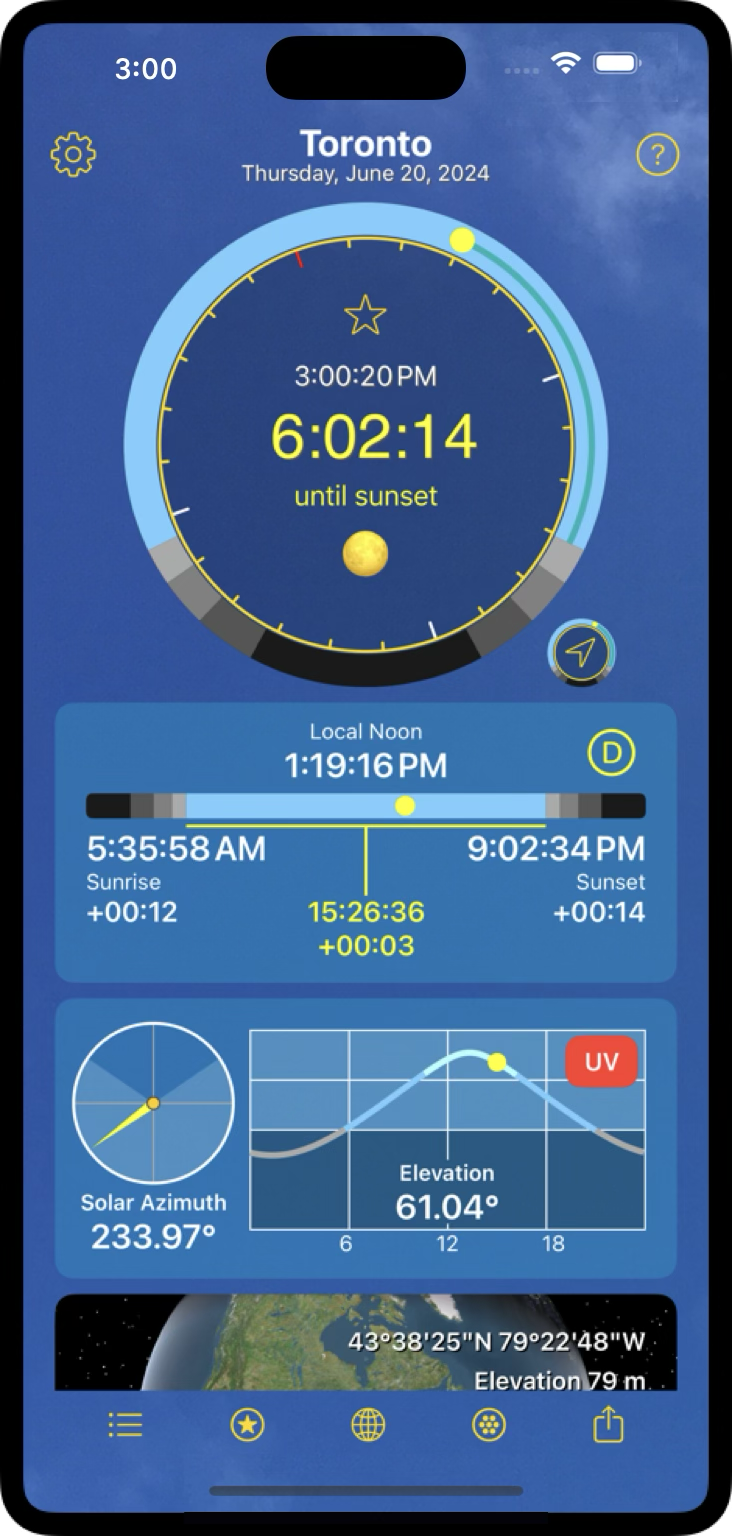
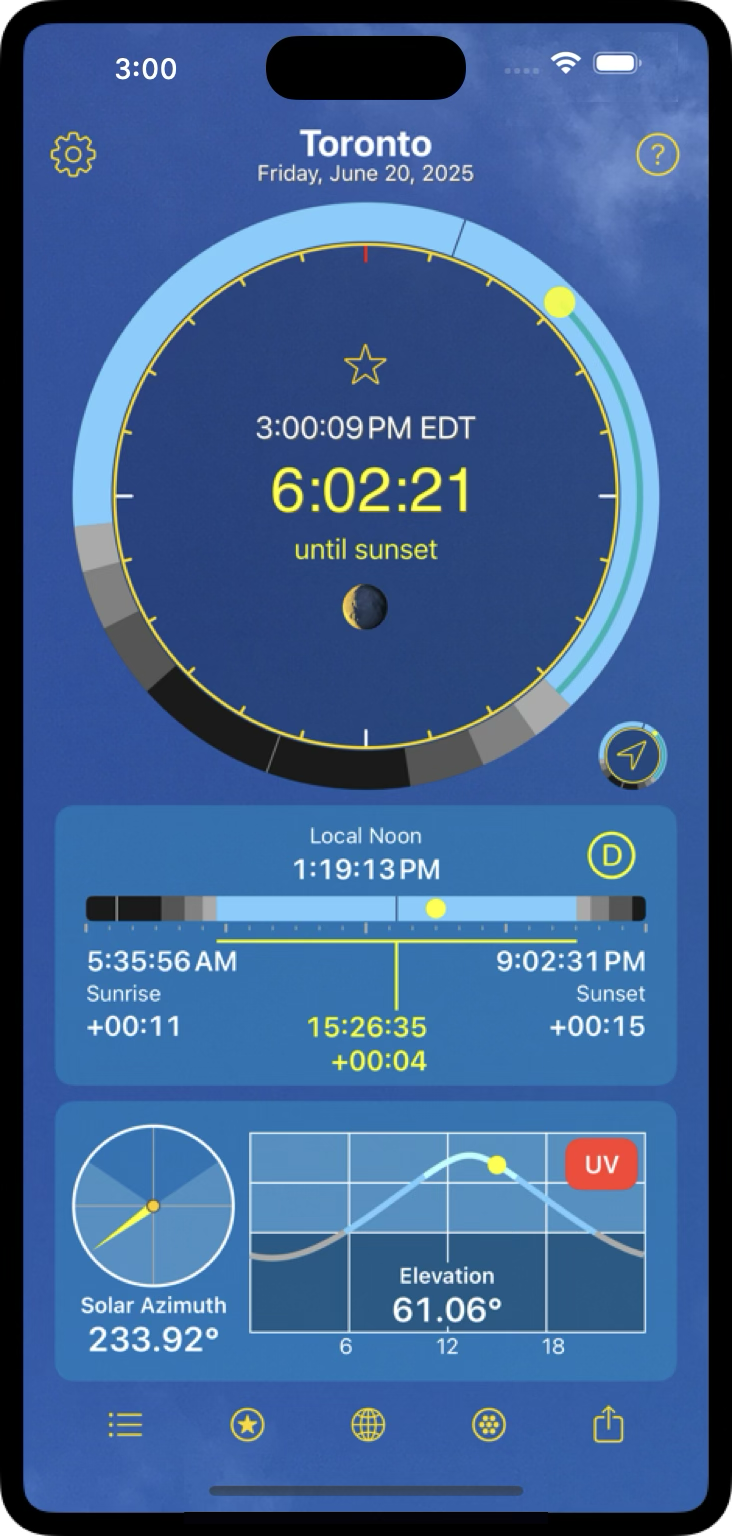
Updated text and iPhone images for version 3.0.7

diff --git a/maxdaylight/v3.0/ru/index.html b/maxdaylight/v3.0/ru/index.html
@@ -74,11 +74,19 @@
 				<div class="container">
 					
 					<h4>МАКС Свет</h4>
-					<p2>Версия 3.0.7 позволяет вам упорядочивать панели данных по своему усмотрению и добавляет панель истории!</p2>
-					<p><hr/></p>
-					<p2>В версии 3.0.3 добавлена панель астрономии!</p2>
-					<h3>Что нового в версии 3.0?</h3>
-					<p>Версия 3.0 значительно улучшена и включает интеграцию лунных данных, четырнадцать новых панелей графических данных и более сотни улучшений. Примечательно, что его энергоэффективность в три раза выше, чем у предыдущих версий.</p>
+					<h3>Что нового в версии 3.0.7?</h2>
+					<div class="boxed-content">
+					<p3>Основное световое кольцо показывает день календаря, + опция солнечных часов.</p3>
+					<p3>Панели данных в предпочитаемом вами порядке.</p3>
+					<p3>Скрыть неиспользуемые панели данных.</p3>
+					<p3>Меню кнопки «Быстрая настройка» для параметров пользовательского интерфейса.</p3>
+					<p3>Дополнительная детализация: «9:41» или «9:41:00»</p3>
+					<p3>Дополнительная сниженная сложность.</p3>
+					<p3>Панель истории показывает недавно просмотренные местоположения.</p3>
+					</div>
+					<br/>
+					<p2>В версии 3.0.3 добавлена панель астрономии!</p2>
+					<p><hr/></p>					<p>Версия 3.0 значительно улучшена и включает интеграцию лунных данных, четырнадцать новых панелей графических данных и более сотни улучшений. Примечательно, что его энергоэффективность в три раза выше, чем у предыдущих версий.</p>
 					<p>Прокрутите вниз, чтобы увидеть каждую из 14 новых панелей данных. При использовании приложения коснитесь любой панели, чтобы получить доступ к дополнительным функциям.</p>
 					
 				</div>

diff --git a/maxdaylight/v3.0/ua/index.html b/maxdaylight/v3.0/ua/index.html
@@ -74,11 +74,20 @@
 				<div class="container">
 					
 					<h4>МАКС світло</h4>
-					<p2>Версія 3.0.7 дозволяє впорядковувати панелі даних, як вам подобається, і додає панель історії!</p2>
+					<h3>Що нового у версії 3.0.7?</h2>
+					  <div class="boxed-content">
+					  <p3>Головне світлове кільце показує календарний день, + опція сонячного годинника.</p3>
+					  <p3>Панелі даних у бажаному порядку.</p3>
+					  <p3>Приховати панелі даних, які не використовуються.</p3>
+					  <p3>Меню кнопок "Швидке налаштування" для параметрів інтерфейсу користувача.</p3>
+					  <p3>Додаткова деталізація: "9:41" або "9:41:00"</p3>
+					  <p3>Необов'язкова знижена складність.</p3>
+					  <p3>Панель історії показує нещодавно переглянуті місця.</p3>
+					  </div>
+					  <br/>
+					  <p2>Версія 3.0.3 додає панель астрономії!</p2>
 					  <p><hr/></p>
-					<p2>Версія 3.0.3 додає панель астрономії!</p2>
-					<h3>Що нового у версії 3.0?</h3>
-					<p>Версію 3.0 значно покращено з інтеграцією місячних даних, чотирнадцятьма новими панелями графічних даних і понад сотнею вдосконалень. Примітно, що він забезпечує втричі вищу енергоефективність, ніж попередні версії.</p>
+					  <p>Версію 3.0 значно покращено з інтеграцією місячних даних, чотирнадцятьма новими панелями графічних даних і понад сотнею вдосконалень. Примітно, що він забезпечує втричі вищу енергоефективність, ніж попередні версії.</p>
 					<p>Прокрутіть вниз, щоб побачити кожну з 14 нових панелей даних. Під час використання програми торкніться будь-якої панелі, щоб отримати доступ до додаткових функцій.</p>
 					
 				</div>

diff --git a/maxdaylight/v3.0/jp/index.html b/maxdaylight/v3.0/jp/index.html
@@ -74,11 +74,19 @@
 				<div class="container">
 
 				<h4>MAX デイライト</h4>
-				<p2>バージョン 3.0.7 では、データ パネルを自由に配置できるようになり、履歴パネルも追加されました。</p2>
-				<p><hr/></p>
-				<p2>バージョン3.0.3では天文パネルが追加されました！</p2>
-				<h3>バージョン 3.0 の新機能</h3>
-				<p>バージョン 3.0 は大幅に強化され、月面データの統合、14 個の新しいグラフィック データ パネル、および 100 を超える改善点が特徴です。 特に、以前のバージョンと比べて 3 倍高い電力効率を実現しています。</p>
+				<h3>バージョン 3.0.7 の新機能</h2>
+				<div class="boxed-content">
+				<p3>メイン ライト リングにカレンダーの日付と日時計オプションが表示されます。</p3>
+				<p3>データ パネルを好みの順序で表示します。</p3>
+				<p3>使用されていないデータ パネルを非表示にします。</p3>
+				<p3>UI オプションの [クイック設定] ボタン メニューです。</p3>
+				<p3>オプションの粒度: 「9:41」または「9:41:00」</p3>
+				<p3>オプションの複雑さの軽減。</p3>
+				<p3>履歴パネルに最近表示した場所が表示されます。</p3>
+				</div>
+				<br/>
+				<p2>バージョン 3.0.3 では天文学パネルが追加されました。</p2>
+				<p><hr/></p>				<p>バージョン 3.0 は大幅に強化され、月面データの統合、14 個の新しいグラフィック データ パネル、および 100 を超える改善点が特徴です。 特に、以前のバージョンと比べて 3 倍高い電力効率を実現しています。</p>
 				<p>下にスクロールして、14 個の新しいデータ パネルをそれぞれ表示します。 アプリを使用するとき、任意のパネルをタップして追加機能にアクセスします。</p>
 
 				</div>

diff --git a/maxdaylight/v3.0/fr-ca/index.html b/maxdaylight/v3.0/fr-ca/index.html
@@ -74,12 +74,20 @@
 				<div class="container">
 
 				<h4>Lumière MAX</h4>
-				<p2>La version 3.0.7 vous permet d'organiser les panneaux de données comme vous le souhaitez et ajoute un panneau d'historique !</p2>
-				<p><hr/></p>
-				<p2>La version 3.0.3 ajoute un panneau d'astronomie !</p2>
-				
-				<h3>Quoi de neuf dans la version 3.0 ?</h3>
-				<p>La version 3.0 est considérablement améliorée, avec l'intégration des données lunaires, quatorze nouveaux panneaux de données graphiques et plus d'une centaine d'améliorations. Notamment, il atteint une efficacité énergétique trois fois supérieure à celle des versions précédentes.</p>
+				<h3>Quoi de neuf dans la version 3.0.7 ?</h2>
+				  <div class="boxed-content">
+				  <p3>L'anneau lumineux principal affiche le jour du calendrier, + option cadran solaire.</p3>
+				  <p3>Panneaux de données dans votre ordre préféré.</p3>
+				  <p3>Masquer les panneaux de données inutilisés.</p3>
+				  <p3>Menu du bouton « Paramètres rapides » pour les options de l'interface utilisateur.</p3>
+				  <p3>Granularité facultative : « 9:41 » ou « 9:41:00 »</p3>
+				  <p3>Complexité réduite facultative.</p3>
+				  <p3>Le panneau Historique affiche les emplacements récemment consultés.</p3>
+				  </div>
+				  <br/>
+				  <p2>La version 3.0.3 ajoute un panneau d'astronomie !</p2>
+				  <p><hr/></p>
+				  <p>La version 3.0 est considérablement améliorée, avec l'intégration des données lunaires, quatorze nouveaux panneaux de données graphiques et plus d'une centaine d'améliorations. Notamment, il atteint une efficacité énergétique trois fois supérieure à celle des versions précédentes.</p>
 				<p>Faites défiler vers le bas pour voir chacun des 14 nouveaux panneaux de données. Lorsque vous utilisez l'application, appuyez sur n'importe quel panneau pour accéder à des fonctionnalités supplémentaires.</p>
 
 				</div>

diff --git a/maxdaylight/v3.0/it/index.html b/maxdaylight/v3.0/it/index.html
@@ -74,11 +74,19 @@
 				<div class="container">
 
 				<h4>Luce MAX</h4>
-				<p2>La versione 3.0.7 ti consente di organizzare i pannelli dati come preferisci e aggiunge un pannello cronologia!</p2>
-				<p><hr/></p>
-				<p2>La versione 3.0.3 aggiunge un pannello di astronomia!</p2>
-				<h3>Cosa c'è di nuovo nella versione 3.0?</h3>
-				<p>La versione 3.0 è stata notevolmente migliorata, con l'integrazione dei dati lunari, quattordici nuovi pannelli dati grafici e oltre un centinaio di miglioramenti. In particolare, raggiunge un'efficienza energetica tre volte maggiore rispetto alle versioni precedenti.</p>
+				<h3>Novità della versione 3.0.7?</h2>
+				<div class="boxed-content">
+				<p3>L'anello luminoso principale mostra il giorno del calendario, + opzione Meridiana.</p3>
+				<p3>Pannelli dati nell'ordine che preferisci.</p3>
+				<p3>Nascondi i pannelli dati inutilizzati.</p3>
+				<p3>Menu pulsante "Impostazioni rapide" per le opzioni dell'interfaccia utente.</p3>
+				<p3>Granularità facoltativa: "9:41" o "9:41:00"</p3>
+				<p3>Complessità ridotta facoltativa.</p3>
+				<p3>Il pannello Cronologia mostra le posizioni visualizzate di recente.</p3>
+				</div>
+				<br/>
+				<p2>La versione 3.0.3 aggiunge un pannello Astronomia!</p2>
+				<p><hr/></p>				<p>La versione 3.0 è stata notevolmente migliorata, con l'integrazione dei dati lunari, quattordici nuovi pannelli dati grafici e oltre un centinaio di miglioramenti. In particolare, raggiunge un'efficienza energetica tre volte maggiore rispetto alle versioni precedenti.</p>
 				<p>Scorri verso il basso per vedere ciascuno dei 14 nuovi pannelli dati. Quando utilizzi l'app, tocca qualsiasi pannello per accedere a funzionalità aggiuntive.</p>
 
 				</div>

diff --git a/maxdaylight/v3.0/pl/index.html b/maxdaylight/v3.0/pl/index.html
@@ -74,11 +74,19 @@
 				<div class="container">
 					
 					<h4>MAX Dzień</h4>
-					<p2>Wersja 3.0.7 umożliwia dowolne rozmieszczanie paneli danych i dodaje panel historii!</p2>
-					<p><hr/></p>
+					<h3>Co nowego w wersji 3.0.7?</h2>
+					<div class="boxed-content">
+					<p3>Główny pierścień świetlny pokazuje dzień kalendarzowy, + opcja zegara słonecznego.</p3>
+					<p3>Panele danych w preferowanej kolejności.</p3>
+					<p3>Ukryj nieużywane panele danych.</p3>
+					<p3>Menu przycisku „Szybkie ustawienia” dla opcji interfejsu użytkownika.</p3>
+					<p3>Opcjonalna granularność: „9:41” lub „9:41:00”</p3>
+					<p3>Opcjonalna zmniejszona złożoność.</p3>
+					<p3>Panel historii pokazuje ostatnio oglądane lokalizacje.</p3>
+					</div>
+					<br/>
 					<p2>Wersja 3.0.3 dodaje panel astronomiczny!</p2>
-					<h3>Co nowego w wersji 3.0?</h3>
-					<p>Wersja 3.0 została znacznie udoskonalona i obejmuje integrację danych Księżyca, czternaście nowych graficznych paneli danych i ponad sto ulepszeń. Warto zauważyć, że osiąga trzykrotnie większą efektywność energetyczną niż poprzednie wersje.</p>
+					<p><hr/></p>					<p>Wersja 3.0 została znacznie udoskonalona i obejmuje integrację danych Księżyca, czternaście nowych graficznych paneli danych i ponad sto ulepszeń. Warto zauważyć, że osiąga trzykrotnie większą efektywność energetyczną niż poprzednie wersje.</p>
 					<p>Przewiń w dół, aby zobaczyć każdy z 14 nowych paneli danych. Podczas korzystania z aplikacji dotknij dowolnego panelu, aby uzyskać dostęp do dodatkowych funkcji.</p>
 					
 				</div>

diff --git a/maxdaylight/v3.0/fr/index.html b/maxdaylight/v3.0/fr/index.html
@@ -73,10 +73,19 @@
 				<div class="container">
 					
 					<h4>Lumière MAX</h4>
-					<p2>La version 3.0.7 vous permet d'organiser les panneaux de données comme vous le souhaitez et ajoute un panneau d'historique !</p2>
+					<h3>Quoi de neuf dans la version 3.0.7 ?</h2>
+					<div class="boxed-content">
+					<p3>L'anneau lumineux principal affiche le jour du calendrier et l'option Cadran solaire.</p3>
+					<p3>Panneaux de données dans votre ordre préféré.</p3>
+					<p3>Masquer les panneaux de données inutilisés.</p3>
+					<p3>Menu du bouton « Réglage rapide » pour les options de l'interface utilisateur.</p3>
+					<p3>Granularité facultative : « 9:41 » ou « 9:41:00 »</p3>
+					<p3>Complexité réduite facultative.</p3>
+					<p3>Le panneau Historique affiche les emplacements récemment consultés.</p3>
+					</div>
+					<br/>
+					<p2>La version 3.0.3 ajoute un panneau Astronomie !</p2>
 					<p><hr/></p>
-					<p2>La version 3.0.3 ajoute un panneau d'astronomie !</p2>
-					<h3>Quoi de neuf dans la version 3.0 ?</h3>
 					<p>La version 3.0 est considérablement améliorée, avec l'intégration des données lunaires, quatorze nouveaux panneaux de données graphiques et plus d'une centaine d'améliorations. Notamment, il atteint une efficacité énergétique trois fois supérieure à celle des versions précédentes.</p>
 					<p>Faites défiler vers le bas pour voir chacun des 14 nouveaux panneaux de données. Lorsque vous utilisez l'application, appuyez sur n'importe quel panneau pour accéder à des fonctionnalités supplémentaires.</p>
 					

diff --git a/maxdaylight/v3.0/se/index.html b/maxdaylight/v3.0/se/index.html
@@ -74,11 +74,20 @@
 				<div class="container">
 					
 					<h4>MAX Solljus</h4>
-					<p2>Version 3.0.7 låter dig arrangera datapaneler som du vill och lägger till en historikpanel!</p2>
-					<p><hr/></p>
-					<p2>Version 3.0.3 lägger till en astronomipanel!</p2>
-					<h3>Vad är nytt i version 3.0?</h3>
-					<p>Version 3.0 är avsevärt förbättrad, med måndataintegration, fjorton nya grafiska datapaneler och över hundra förbättringar. Noterbart är att den uppnår tre gånger högre energieffektivitet än tidigare versioner.</p>
+					<h3>Vad är nytt i version 3.0.7?</h2>
+					  <div class="boxed-content">
+					  <p3>Main Light Ring visar kalenderdag, + alternativ för solur.</p3>
+					  <p3>Datapaneler i önskad ordning.</p3>
+					  <p3>Dölj oanvända datapaneler.</p3>
+					  <p3>"Snabbinställning"-knappmeny för gränssnittsalternativ.</p3>
+					  <p3>Valfri granularitet: "9:41" eller "9:41:00"</p3>
+					  <p3>Valfri reducerad komplexitet.</p3>
+					  <p3>Historikpanelen visar senast visade platser.</p3>
+					  </div>
+					  <br/>
+					  <p2>Version 3.0.3 lägger till en astronomipanel!</p2>
+					  <p><hr/></p>
+					  <p>Version 3.0 är avsevärt förbättrad, med måndataintegration, fjorton nya grafiska datapaneler och över hundra förbättringar. Noterbart är att den uppnår tre gånger högre energieffektivitet än tidigare versioner.</p>
 					<p>Bläddra ner för att se var och en av de 14 nya datapanelerna. När du använder appen, tryck på valfri panel för att komma åt ytterligare funktioner.</p>
 					
 				</div>

diff --git a/maxdaylight/v3.0/cn/index.html b/maxdaylight/v3.0/cn/index.html
@@ -74,11 +74,19 @@
 				<div class="container">
 					
 					<h4>最大日照</h4>
-					<p2>版本 3.0.7 允许您按自己喜欢的方式排列数据面板，并添加了历史记录面板！</p2>
-					<p><hr/></p>
-					<p2>3.0.3版本添加了天文面板！</p2>
-					<h3>3.0 版本有哪些新功能？</h3>
-					<p>3.0 版本得到了显着改进，包括月球数据集成、十四个新的图形数据面板以及一百多项改进。 值得注意的是，它的能效比以前的版本高出三倍。</p>
+					<h3>版本 3.0.7 中有哪些新功能？</h2>
+					<div class="boxed-content">
+					<p3>主灯环显示日历日，+ 日晷选项。</p3>
+					<p3>按您喜欢的顺序显示数据面板。</p3>
+					<p3>隐藏未使用的数据面板。</p3>
+					<p3>用于 UI 选项的“快速设置”按钮菜单。</p3>
+					<p3>可选粒度：“9:41”或“9:41:00”</p3>
+					<p3>可选降低复杂性。</p3>
+					<p3>历史面板显示最近查看的位置。</p3>
+					</div>
+					<br/>
+					<p2>版本 3.0.3 添加了天文学面板！</p2>
+					<p><hr/></p>					<p>3.0 版本得到了显着改进，包括月球数据集成、十四个新的图形数据面板以及一百多项改进。 值得注意的是，它的能效比以前的版本高出三倍。</p>
 					<p>向下滚动可查看 14 个新数据面板中的每一个。 使用该应用程序时，点击任意面板即可访问其他功能。</p>
 					
 				</div>

diff --git a/maxdaylight/v3.0/es/index.html b/maxdaylight/v3.0/es/index.html
@@ -74,10 +74,19 @@
 				<div class="container">
 					
 					<h4>Luz MAX</h4>
-					<p2>La versión 3.0.7 te permite organizar los paneles de datos como quieras y añade un panel de historial.</p2>
-					<p><hr/></p>
+					<h3>¿Qué novedades hay en la versión 3.0.7?</h2>
+					<div class="boxed-content">
+					<p3>El anillo de luz principal muestra el día del calendario, más la opción de reloj de sol.</p3>
+					<p3>Paneles de datos en el orden que prefiera.</p3>
+					<p3>Oculte los paneles de datos no utilizados.</p3>
+					<p3>Menú del botón "Configuración rápida" para las opciones de la interfaz de usuario.</p3>
+					<p3>Granularidad opcional: "9:41" o "9:41:00"</p3>
+					<p3>Complejidad reducida opcional.</p3>
+					<p3>El panel de historial muestra las ubicaciones vistas recientemente.</p3>
+					</div>
+					<br/>
 					<p2>¡La versión 3.0.3 agrega un panel de astronomía!</p2>
-					<h3>¿Qué hay de nuevo en la versión 3.0?</h3>
+					<p><hr/></p>
 					<p>La versión 3.0 ha sido significativamente mejorada e incluye integración de datos lunares, catorce nuevos paneles de datos gráficos y más de cien mejoras. En particular, logra una eficiencia energética tres veces mayor que las versiones anteriores.</p>
 					<p>Desplácese hacia abajo para ver cada uno de los 14 nuevos paneles de datos. Cuando utilices la aplicación, toca cualquier panel para acceder a funciones adicionales.</p>
 					

diff --git a/maxdaylight/v3.0/de/index.html b/maxdaylight/v3.0/de/index.html
@@ -73,10 +73,19 @@
 				<div class="container">
 					
 					<h4>MAX Tageslicht</h4>
-					<p2>Version 3.0.7 ermöglicht Ihnen die Anordnung der Datenfelder nach Belieben und fügt ein Verlaufsfeld hinzu!</p2>
+					<h3>Was ist neu in Version 3.0.7?</h2>
+					<div class="boxed-content">
+						<p3>Hauptlichtring zeigt Kalendertag, + Sonnenuhroption.</p3>
+						<p3>Datenfelder in Ihrer bevorzugten Reihenfolge.</p3>
+						<p3>Nicht verwendete Datenfelder ausblenden.</p3>
+						<p3>Schaltfläche für schnelle UI-Änderungen.</p3>
+						<p3>Optionale Granularität: „9:41“ oder „9:41:00“</p3>
+						<p3>Optional reduzierte Komplexität.</p3>
+						<p3>Verlaufsfeld zeigt zuletzt angezeigte Standorte.</p3>
+					</div>
+					<br/>
+					<p2>Version 3.0.3 fügt ein Astronomiefeld hinzu!</p2>
 					<p><hr/></p>
-					<p2>Version 3.0.3 fügt ein Astronomie-Panel hinzu!</p2>
-					<h3>Was ist neu in Version 3.0?</h3>
 					<p>Version 3.0 wurde erheblich verbessert und bietet die Integration von Monddaten, vierzehn neue grafische Datenfelder und über hundert Verbesserungen. Bemerkenswert ist, dass es eine dreimal höhere Energieeffizienz als frühere Versionen erreicht.</p>
 					<p>Scrollen Sie nach unten, um jedes der 14 neuen Datenfelder anzuzeigen. Wenn Sie die App verwenden, tippen Sie auf ein beliebiges Feld, um auf zusätzliche Funktionen zuzugreifen.</p>
 					

diff --git a/stylesheets/style359.css b/stylesheets/style359.css
@@ -66,6 +66,23 @@ p2 {
 	font-weight: 700;
 	color: #006600;
 }
+
+p3 {
+	display: block; /* Ensures it's treated like a paragraph */
+	margin-top: 1em;
+	font-weight: 500;
+	color: #FFFF00;
+	text-align: center; /* Aligns the content to the left */
+}
+
+p4 {
+	display: block; /* Ensures it's treated like a paragraph */
+	margin-top: 1em;
+	font-weight: 700;
+	color: #FFFFFF;
+	text-align: center; /* Aligns the content to the left */
+}
+
 .content {
 	max-width: 625px;
 	min-width: 340px;
@@ -260,7 +277,7 @@ table {
 	 grid-template-columns: repeat(4, 1fr); /* 4 equal columns */
 	 gap: 10px; /* space between images */
 	 width: 100%; /* adjust this width as needed */
-	 background-color: #777; /* dark gray background */
+	 background-color: #31539C; /* blue background */
 	 padding: 15px; /* padding inside the container */
 	 border-radius: 15px; /* rounded corners for the grid container */
 /*	 max-width: 600px; /* optional: restrict max grid width */
@@ -273,4 +290,15 @@ table {
 	 object-fit: cover;
 	 border: 1px solid #ccc; /* optional border for visual separation */
 /*	 border-radius: 5px; /* optional rounded corners */
+}
+
+.boxed-content {
+	 padding-left: 20px;
+	 padding-right: 20px;
+	 padding-bottom: 20px;
+	 border: 1px solid black;
+	 background-color: #31539C;
+	 margin-top: 1em;
+	 border-radius: 15px;
+
 }
